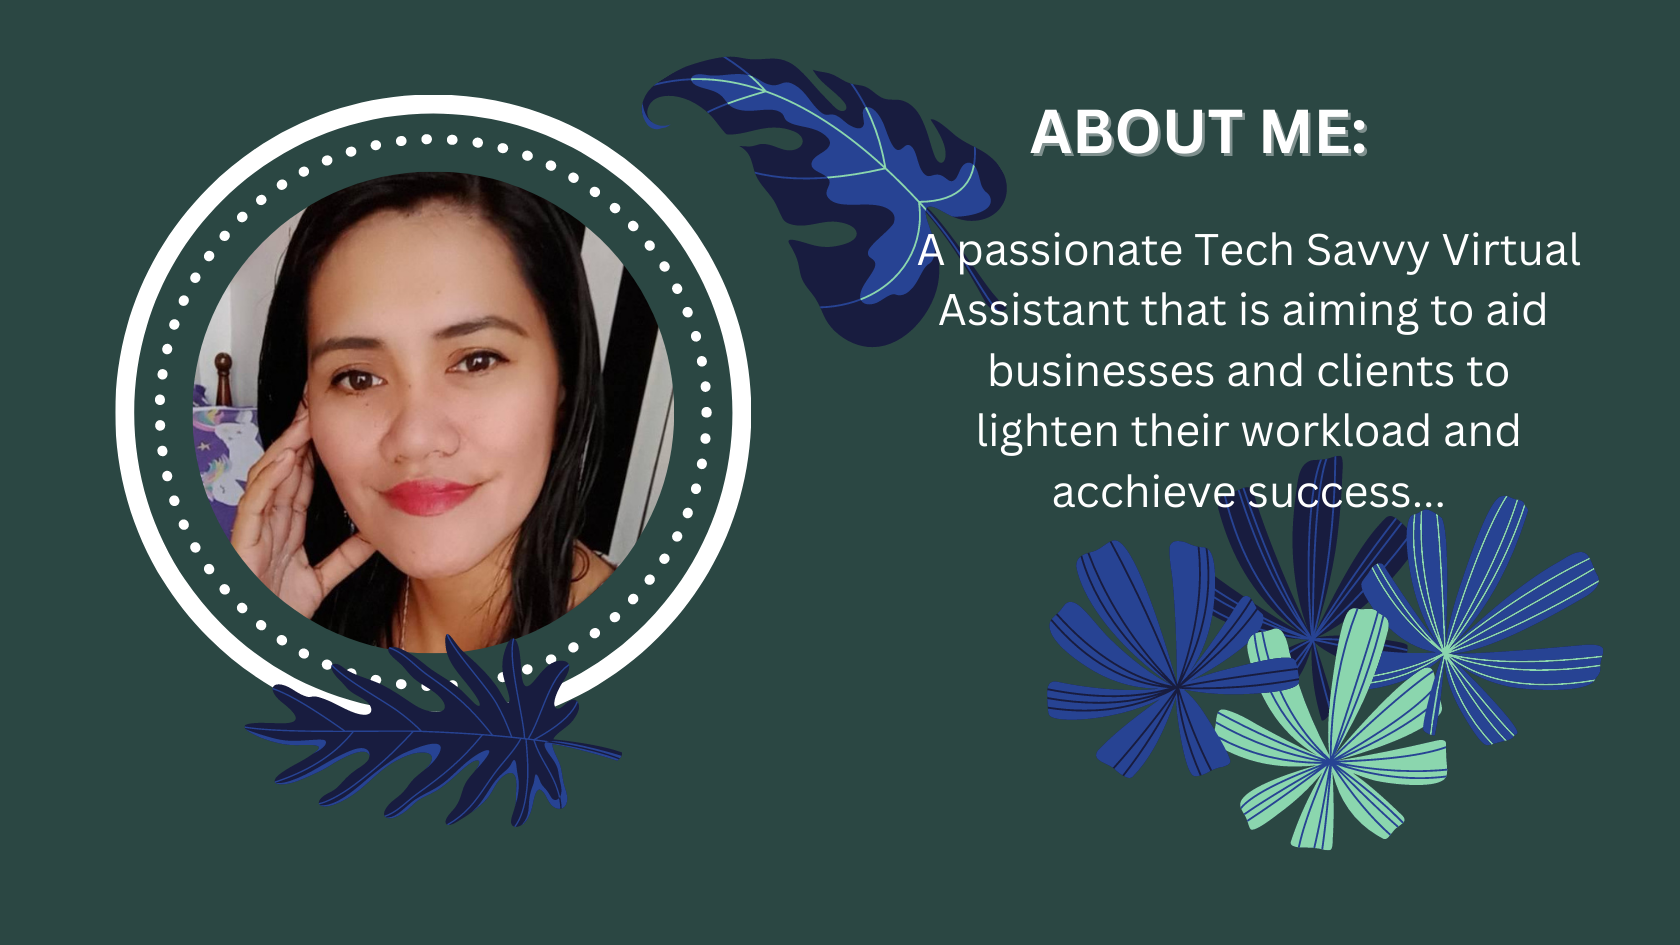
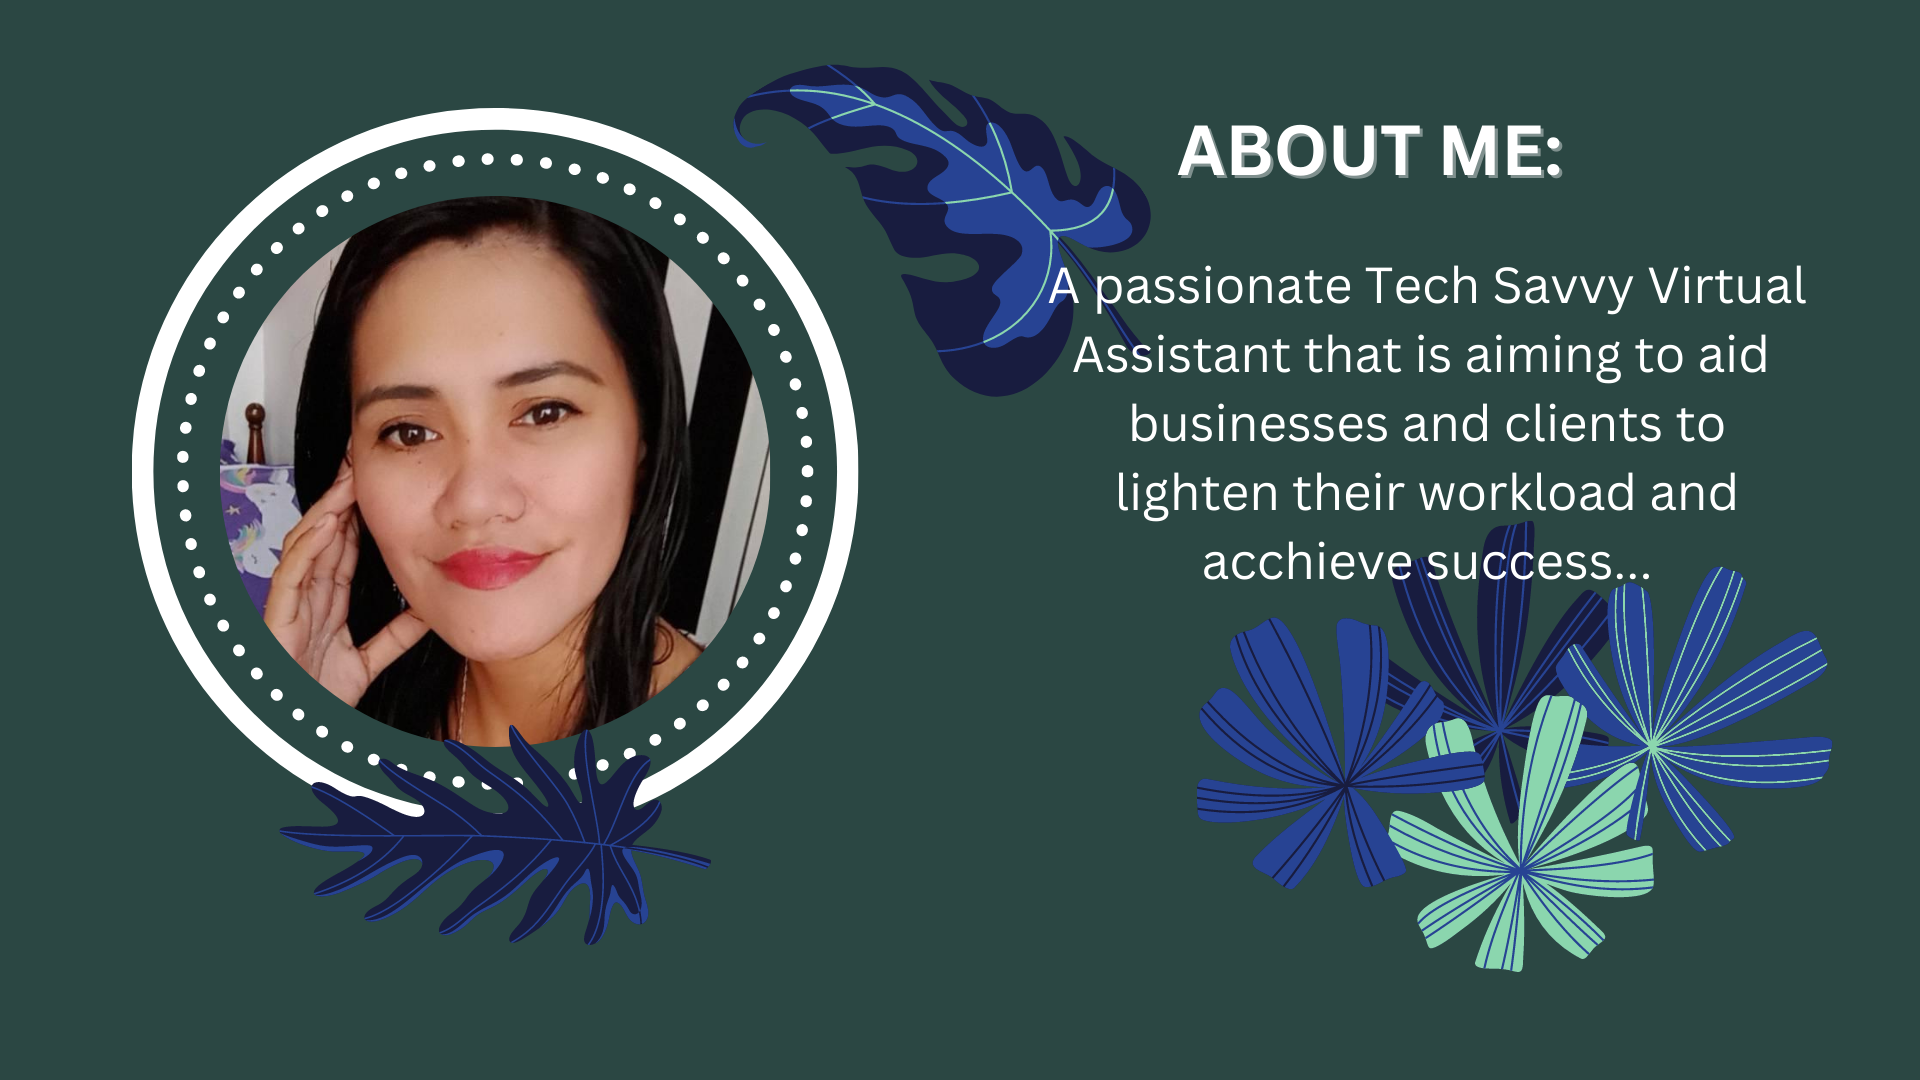
about page edited

diff --git a/About/styles.css b/About/styles.css
@@ -47,8 +47,8 @@ article h1::after{
 img.about{
     margin: auto;
     display: block;
-    height: 400px;
-    width: 400px;
+    height: 300px;
+    width: 300px;
     margin-top: 40px;
     border-radius: 50%;
     border: 3px solid #ecc6e8;  
@@ -110,6 +110,41 @@ h3{
     position: relative;
     top: 40px;
 }
-.subcontainer{
+.portfolio-container{
+    height: 900px;
+    background-color: #ecc6e8;
     
+}
+.portfolio-container h1{
+   color: #aa08a5;
+   font-size: 40px;
+   font-weight: bolder;
+font-family: sans-serif;
+padding-top: 5%;
+padding-bottom: 3%;
+}
+
+.subcontainer{
+    display: grid;
+    grid-template-columns: repeat(2, 1fr );
+    grid-template-rows: repeat(2, 1 fr);
+    background-color: skyblue;
+    resize: both;
+    margin: 30px;
+
+}
+.subcontainer .item {
+    height: auto;
+    width: 100%;
+    gap: 30px;
+    border: 4px solid #19966cee;
+    text-align: center;
+    display: flex;
+    align-items: center;
+}
+@media screen (min-width: 480px) {
+    .subcontainer{
+        grid-template-columns: repeat(1, 1fr );
+        grid-template-rows: repeat(4, 1 fr);
+    }
 }

diff --git a/About/index.html b/About/index.html
@@ -19,12 +19,13 @@
             </article>
         </div>
     </div>
-    <div class="<img class="item" src="">">
+    <div class="portfolio-container">
+             <h1>My Portfolio</h1>
         <div class="subcontainer">
-            <h1>My Portfolio</h1>
-            <img class="item" src="" alt="My portfolio pic 1">
-            <img class="item" src="" alt="My portfolio pic 2">
-            <img class="item" src="" alt="My portfolio pic 3">           
+            <img class="item" src="/images/1.png" alt="My portfolio pic 1">
+            <img class="item" src="/images/2.png" alt="My portfolio pic 2">
+            <img class="item" src="/images/3.png" alt="My portfolio pic 3">
+            <img class="item" src="/images/4.png" alt="My portfolio pic 3">
         </div>
     </div>
     <foote>
